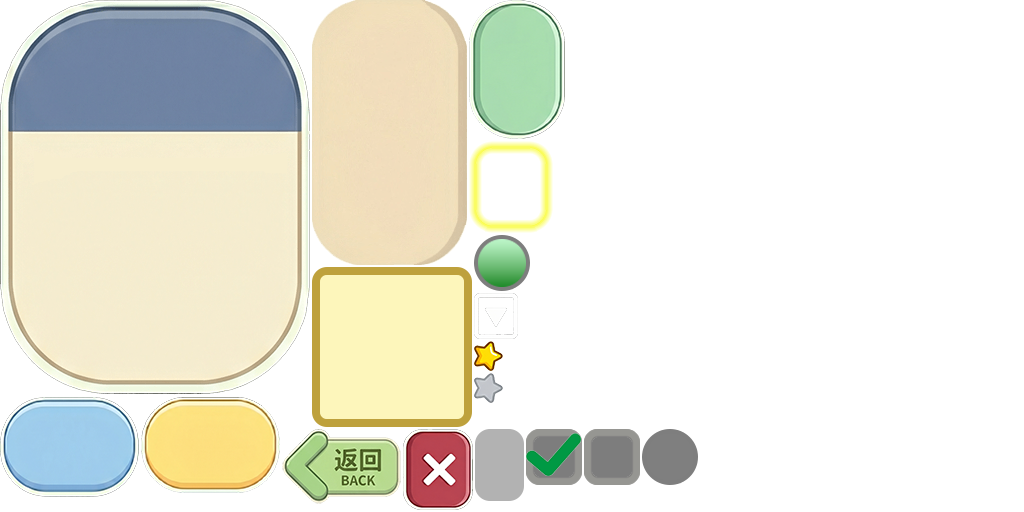
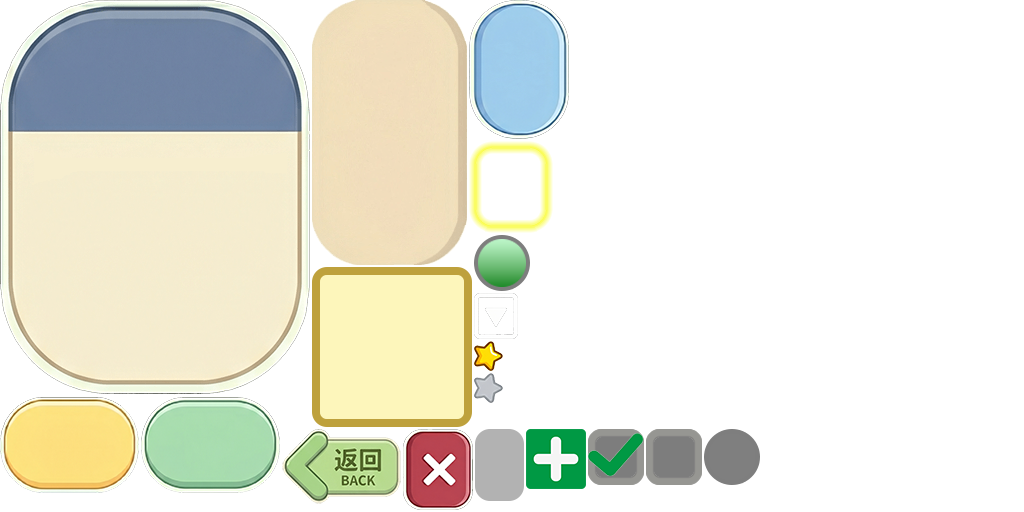
feat: 添加广告观看功能以获取体力，更新相关组件和资源

Changed region(s): [[0.0, 0.75, 0.2812, 0.9688], [0.4375, 0.0, 0.5625, 0.2812], [0.5, 0.8125, 0.75, 0.9688]]

diff --git a/assets/scripts/view/challenge/comp/CompEnergy.ts b/assets/scripts/view/challenge/comp/CompEnergy.ts
@@ -10,6 +10,14 @@ import * as fgui from "fairygui-cc";
 import { DataCenter } from "@datacenter/Datacenter";
 import { EVENT_NAMES } from "@datacenter/CommonConfig";
 import { UserEnergy } from "@modules/UserEnergy";
+import { USER_ENERGY_CHANGE_TYPE } from "@modules/Challenge";
+import { MiniGameUtils } from "@frameworks/utils/sdk/MiniGameUtils";
+import { REWORD_VIDEOAD_CODE } from "@frameworks/config/Config";
+import { SoundManager } from "@frameworks/SoundManager";
+import { PopMessageView } from "@view/common/PopMessageView";
+import { TipsView } from "@view/common/TipsView";
+import { LoadingView } from "@view/common/LoadingView";
+import { ENUM_POP_MESSAGE_TYPE } from "@datacenter/InterfaceConfig";
 
 /**
  * @class CompEnergy
@@ -51,12 +59,55 @@ export class CompEnergy extends FGUICompEnergy {
 
     /**
      * @method show
-     * @description 显示组件，刷新显示并启动计时器
+     * @description 显示组件，刷新显示并启动计时器，注册自身点击事件（点击看广告领取体力）
      * @param {any} [data] - 传入数据（预留）
      */
     show(data?: any): void {
         this.refreshDisplay();
         this.startTimerIfNeeded();
+        this.clearClick();
+        this.onClick(this.onClickSelf.bind(this));
+    }
+
+    /**
+     * @method onClickSelf
+     * @description 点击体力组件，弹出看广告领取体力确认弹窗
+     * @private
+     */
+    private onClickSelf(): void {
+        PopMessageView.showView({
+            title: "温馨提示",
+            content: "看视频广告可以领取10体力",
+            type: ENUM_POP_MESSAGE_TYPE.NUM1SURE,
+            sureBack: this.playAdAndReceiveEnergy.bind(this),
+        });
+    }
+
+    /**
+     * @method playAdAndReceiveEnergy
+     * @description 播放激励视频广告，广告成功后请求服务端领取体力
+     * @private
+     */
+    private playAdAndReceiveEnergy(): void {
+        LoadingView.showView({ content: "载入中...", time: 12 });
+        MiniGameUtils.instance.showRewardedVideoAd("adunit-21e58350c401d5b6", (code: number) => {
+            LoadingView.hideView();
+            // 广告关闭时恢复播放背景音乐
+            SoundManager.instance.adCloseMusicPlay();
+            if (code == REWORD_VIDEOAD_CODE.SUCCESS) {
+                UserEnergy.instance.changeReq(10, USER_ENERGY_CHANGE_TYPE.AD, undefined, (data: any) => {
+                    if (data && data.code === 1) {
+                        TipsView.showView({ content: "领取成功" });
+                    } else {
+                        TipsView.showView({ content: "领取体力失败" });
+                    }
+                });
+            } else if (code == REWORD_VIDEOAD_CODE.NOT_OVER) {
+                TipsView.showView({ content: "看完视频才能获取奖励哦" });
+            } else {
+                TipsView.showView({ content: "视频广告播放失败" });
+            }
+        });
     }
 
     /**

diff --git a/assets/scripts/modules/Challenge.ts b/assets/scripts/modules/Challenge.ts
@@ -26,6 +26,8 @@ export enum USER_ENERGY_CHANGE_TYPE {
     TEST = 0,
     /** 闯关 */
     CHALLENGE = 1,
+    /** 广告 */
+    AD = 2,
 }
 
 /**
